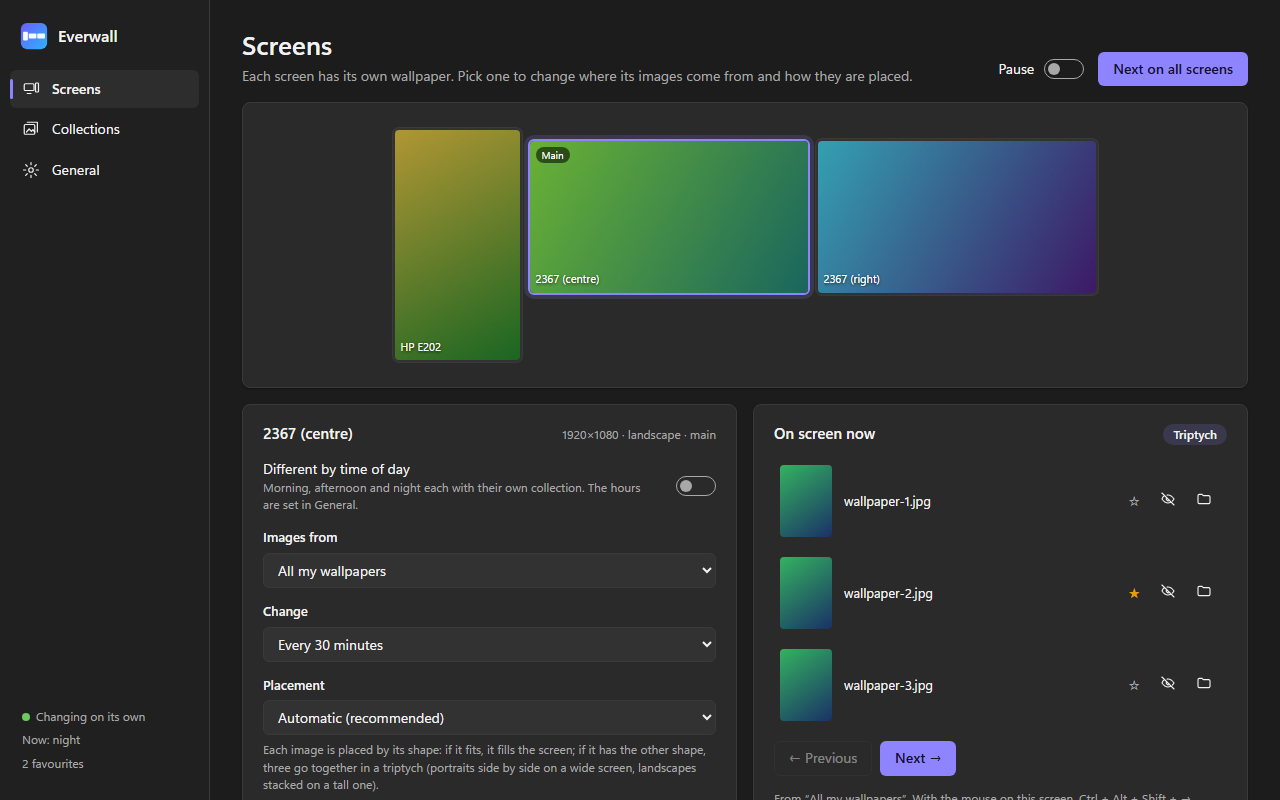
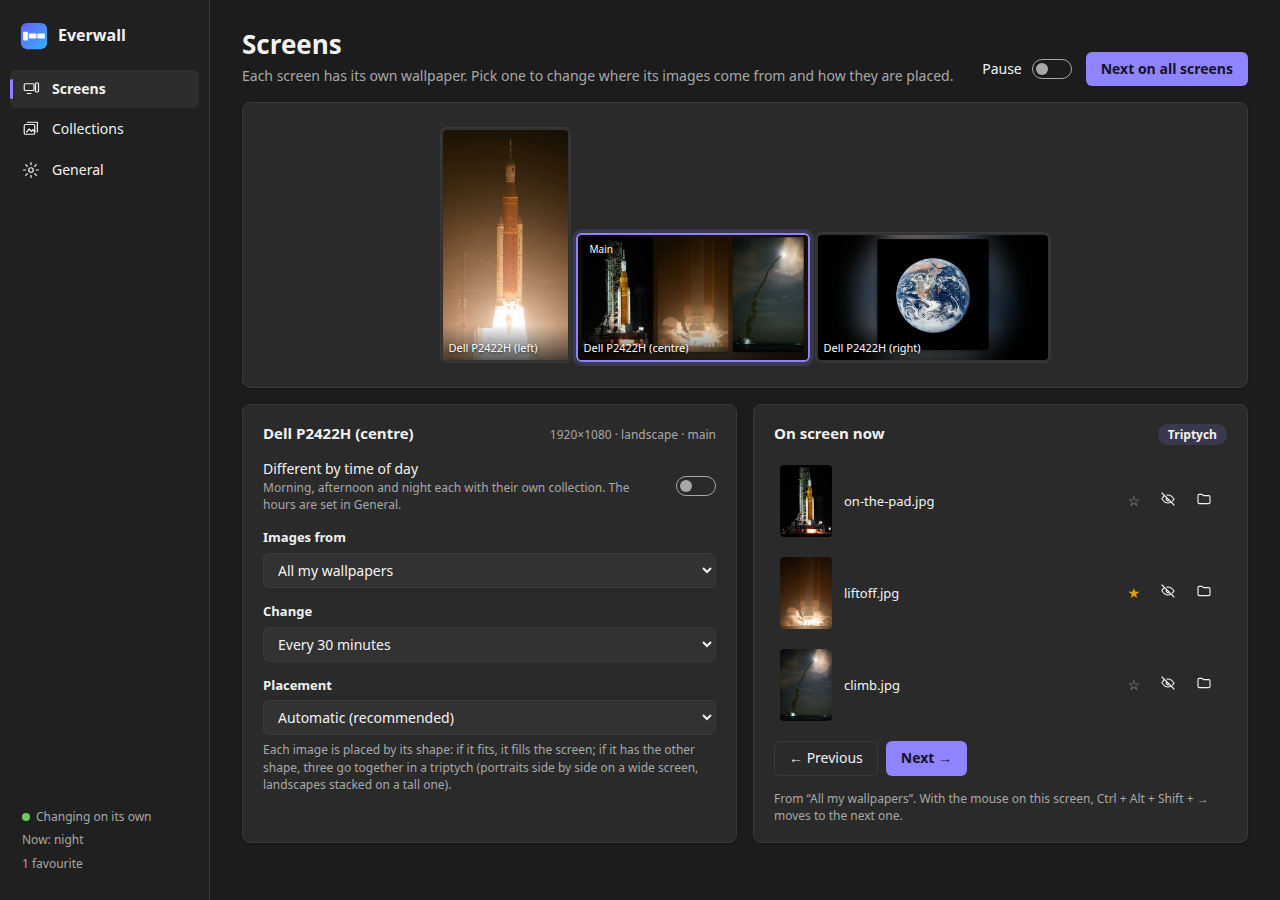
Show Everwall at work at the top of the README
A header with the icon and the badges, and a picture of three screens with
wallpapers Everwall rendered itself: full screen, a triptych and a whole
image over a blurred copy, from public-domain NASA photos. The settings
screenshot shows the same wallpapers and moves to Features, the code blocks
name their language, and the diagnostics commands start with .\ so they
run as typed in PowerShell.

The screen names in the window's map sit on a dark scrim, so they stay
readable on bright wallpapers.

diff --git a/ui/style.css b/ui/style.css
@@ -147,8 +147,11 @@ h2 { font-size: 15px; font-weight: 600; margin: 0; }
 .mon.sel { border-color: var(--accent); box-shadow: 0 0 0 4px var(--accent-soft); }
 .mon img { width: 100%; height: 100%; object-fit: cover; display: block; }
 .mon .empty { width: 100%; height: 100%; background: linear-gradient(135deg, var(--accent-soft), transparent); }
+/* the name sits on a dark scrim so it reads on bright wallpapers too */
 .mon .tag {
-  position: absolute; left: 6px; bottom: 6px; right: 6px;
+  position: absolute; left: 0; bottom: 0; right: 0;
+  padding: 16px 6px 5px;
+  background: linear-gradient(transparent, rgba(0, 0, 0, .65));
   font-size: 11px; line-height: 1.3; color: #fff;
   text-shadow: 0 1px 3px rgba(0, 0, 0, .8);
   white-space: nowrap; overflow: hidden; text-overflow: ellipsis;

diff --git a/README.md b/README.md
@@ -1,16 +1,29 @@
-# Everwall
+<p align="center">
+  <img src="src-tauri/icons/icon.png" width="96" alt="Everwall icon">
+</p>
 
-A tray app for Windows 11 and Ubuntu (GNOME) that puts a different wallpaper
-on each screen, chosen from collections of folders and laid out to suit the
-shape of each screen.
+<h1 align="center">Everwall</h1>
+
+<p align="center">
+  A different wallpaper on each screen, laid out to suit its shape.<br>
+  A tray app for Windows 11 and Ubuntu (GNOME), built with Rust and Tauri.
+</p>
+
+<p align="center">
+  <a href="https://github.com/johan-socarras/Everwall/releases/latest"><img alt="Latest release" src="https://img.shields.io/github/v/release/johan-socarras/Everwall?color=6d5dfc"></a>
+  <a href="LICENSE"><img alt="License: GPL-3.0" src="https://img.shields.io/badge/license-GPL--3.0-blue"></a>
+  <img alt="Runs on Windows 11 and Ubuntu (GNOME)" src="https://img.shields.io/badge/runs%20on-Windows%2011%20%7C%20Ubuntu%20(GNOME)-2bb3ff">
+</p>
+
+![Three screens with wallpapers placed by Everwall: a portrait photo fills a portrait screen, three portrait photos form a triptych on a wide screen, and a square photo sits whole over a blurred copy of itself](docs/hero.jpg)
+
+<p align="center"><sub>Photos: NASA, public domain (the Artemis I launch by Joel Kowsky, the Earth by the Apollo 17 crew).</sub></p>
 
 Windows can show a slideshow, but it picks images blindly: a portrait photo on
 a landscape monitor ends up cropped or letterboxed, and a rotated monitor gets
 images that were never meant for it. GNOME cannot even give each screen its
-own wallpaper. Everwall looks at each image and each screen before it decides
-how to place it.
-
-![Everwall's settings window, with sample data: three screens and the triptych on the main one](docs/screenshot.png)
+own wallpaper. Everwall takes its wallpapers from collections of folders and
+looks at each image and each screen before it decides how to place it.
 
 ## Download
 
@@ -46,7 +59,7 @@ Ubuntu 26.04 (GNOME 50); on an older Ubuntu, build it from source. The accent
 colour needs GNOME 47 or later. It needs WebKitGTK 4.1, the AppIndicator
 support Ubuntu ships for tray icons, and `zenity` for the folder picker:
 
-```
+```sh
 sudo apt install libwebkit2gtk-4.1-0 libayatana-appindicator3-1 zenity
 ```
 
@@ -102,6 +115,8 @@ own part.
   main screen: Wayland does not tell apps where the mouse is.
 - Interface in English or Spanish.
 
+![Everwall's settings window, with sample data: three screens, and the triptych on the main one](docs/screenshot.png)
+
 ## How it is built
 
 - `src-tauri/`: Rust with Tauri 2. One code base: what each system does
@@ -142,7 +157,7 @@ Requires:
   and Windows 11 only includes Windows PowerShell 5.1.
 - WebView2, which ships with Windows 11.
 
-```
+```powershell
 pwsh -File install.ps1
 ```
 
@@ -155,7 +170,7 @@ instead.
 
 Requires Rust and the libraries Tauri builds against:
 
-```
+```sh
 sudo apt install build-essential libwebkit2gtk-4.1-dev libgtk-3-dev \
   libayatana-appindicator3-dev librsvg2-dev libssl-dev zenity
 ./install.sh
@@ -176,12 +191,12 @@ the file manager.
 
 ## Checking it without changing the wallpaper
 
-```
-Everwall.exe --diagnostics out.txt   # screens, collections, time of day
-Everwall.exe --samples folder        # every layout rendered for every screen
+```powershell
+.\Everwall.exe --diagnostics out.txt   # screens, collections, time of day
+.\Everwall.exe --samples folder        # every layout rendered for every screen
 ```
 
-On Ubuntu the same options go to `everwall`.
+Run them in the app's folder. On Ubuntu the same options go to `everwall`.
 
 ## License
 
